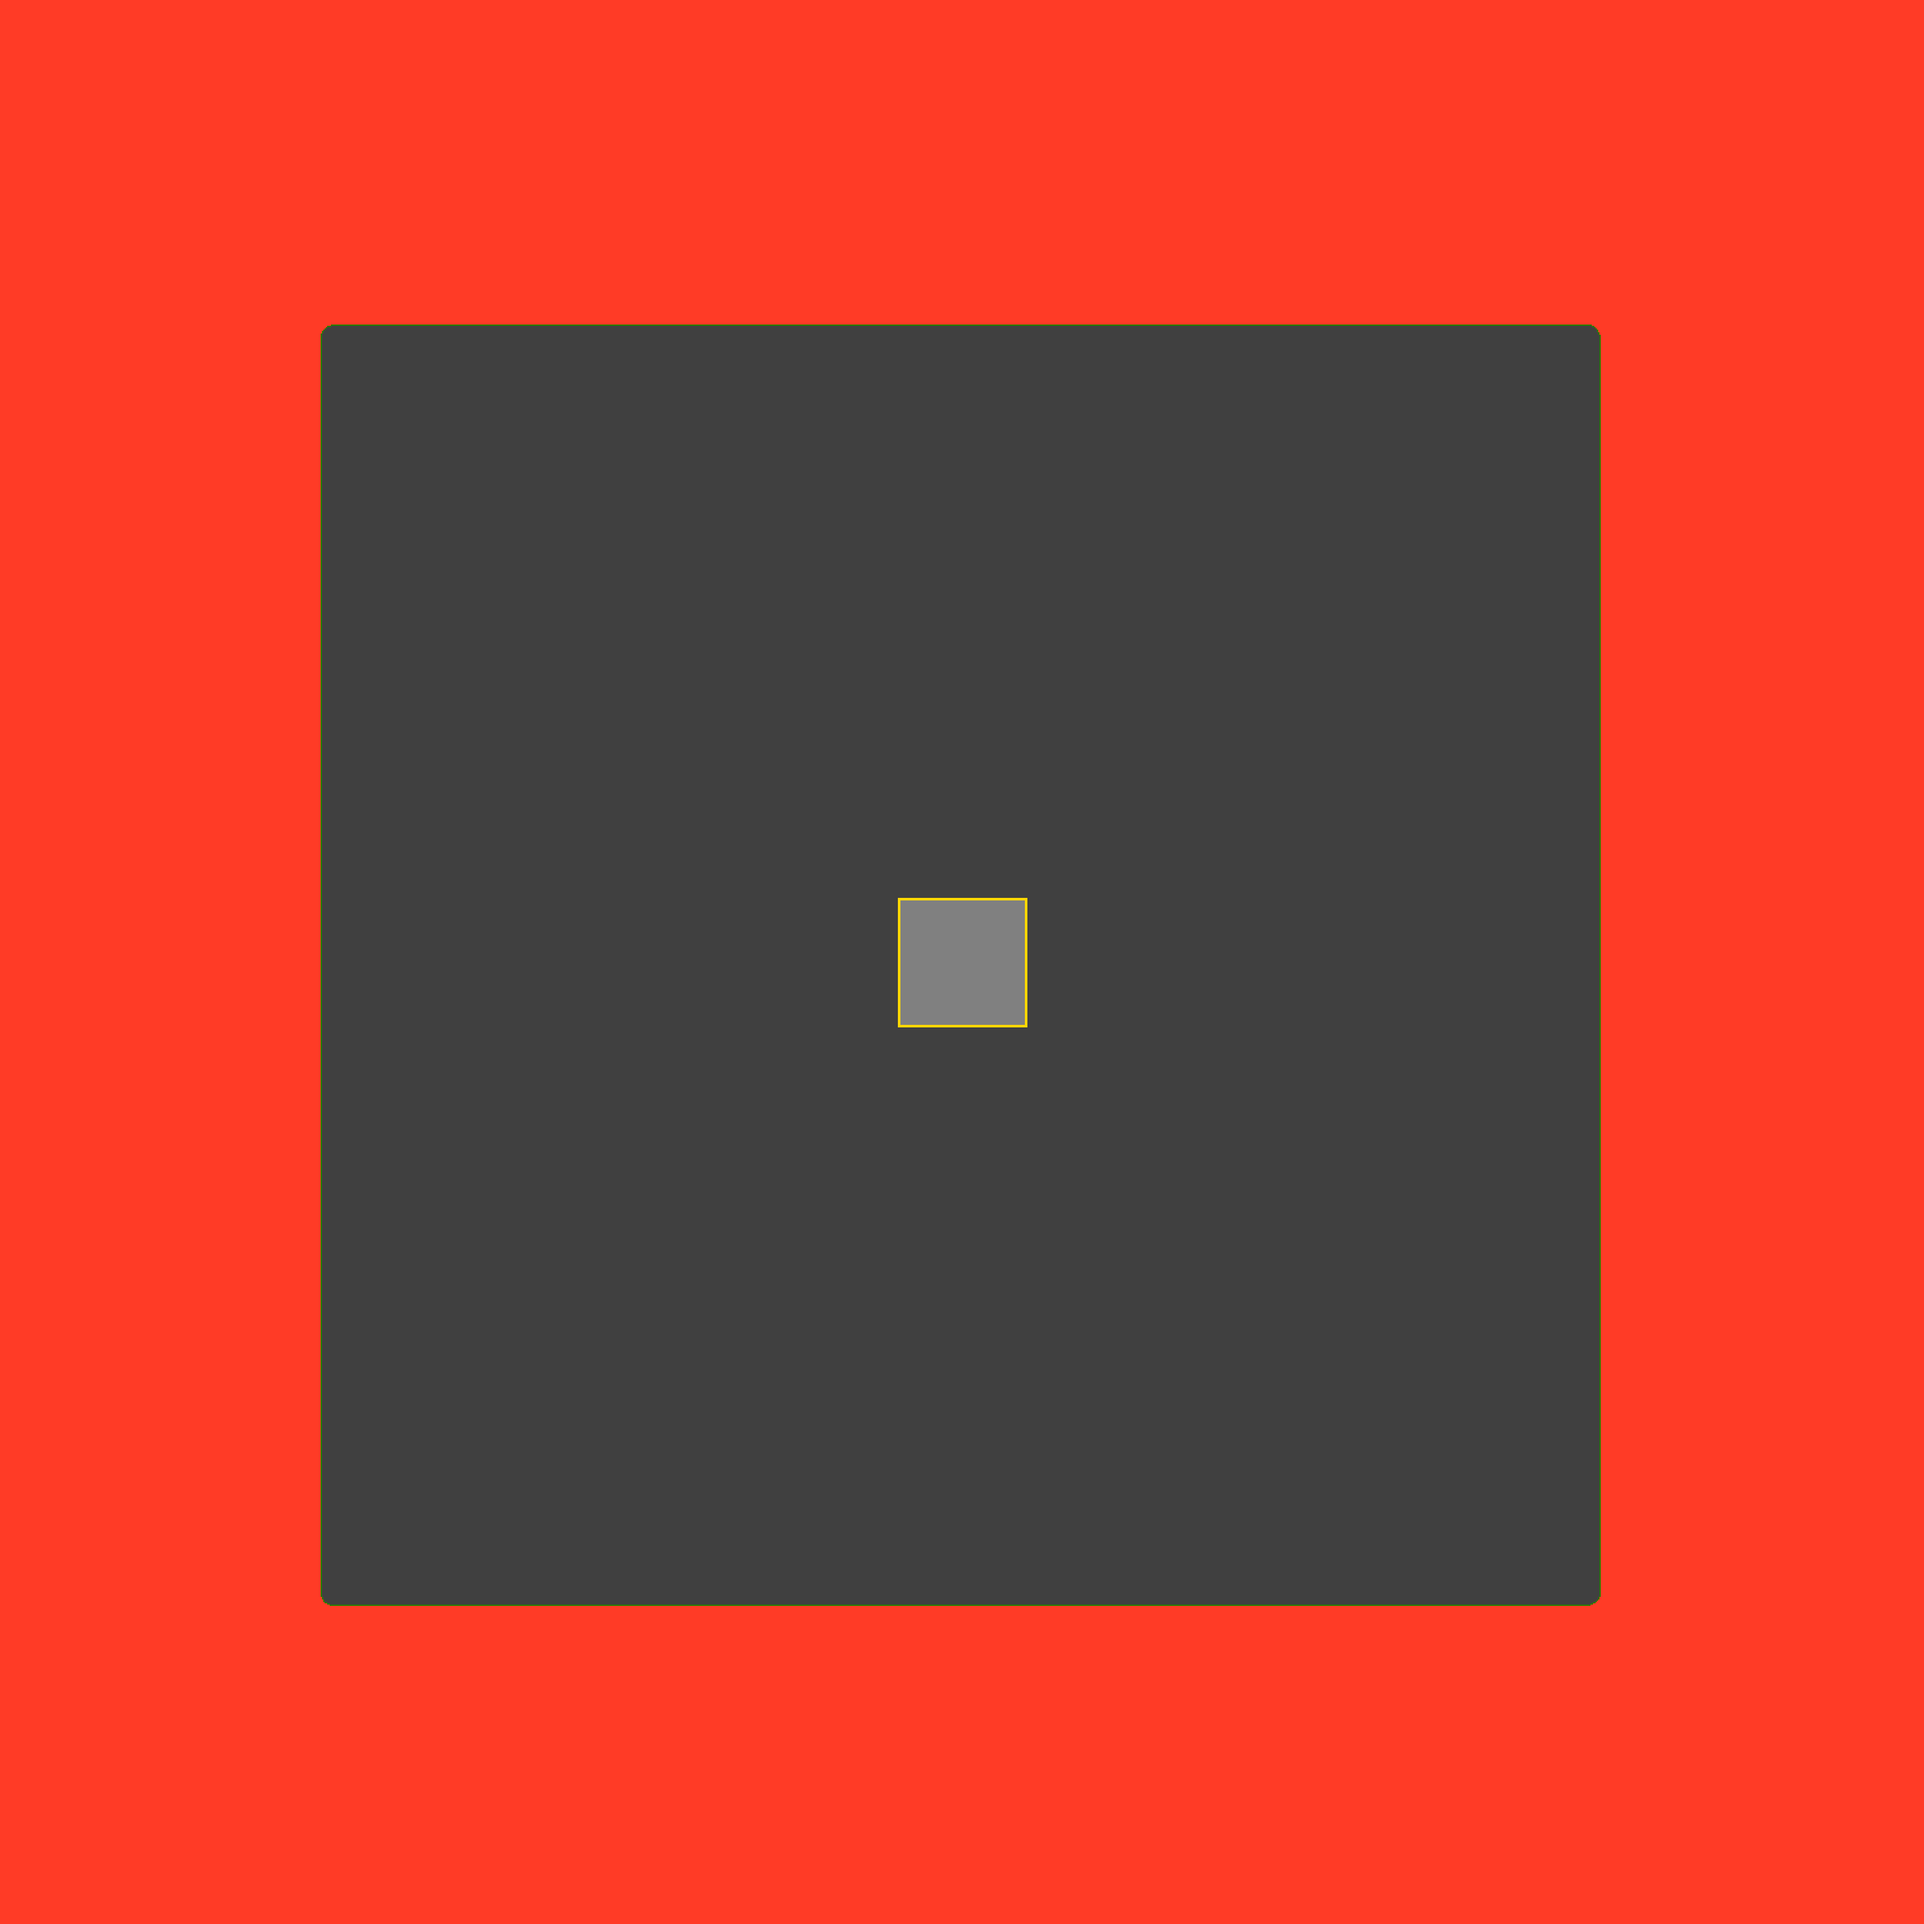
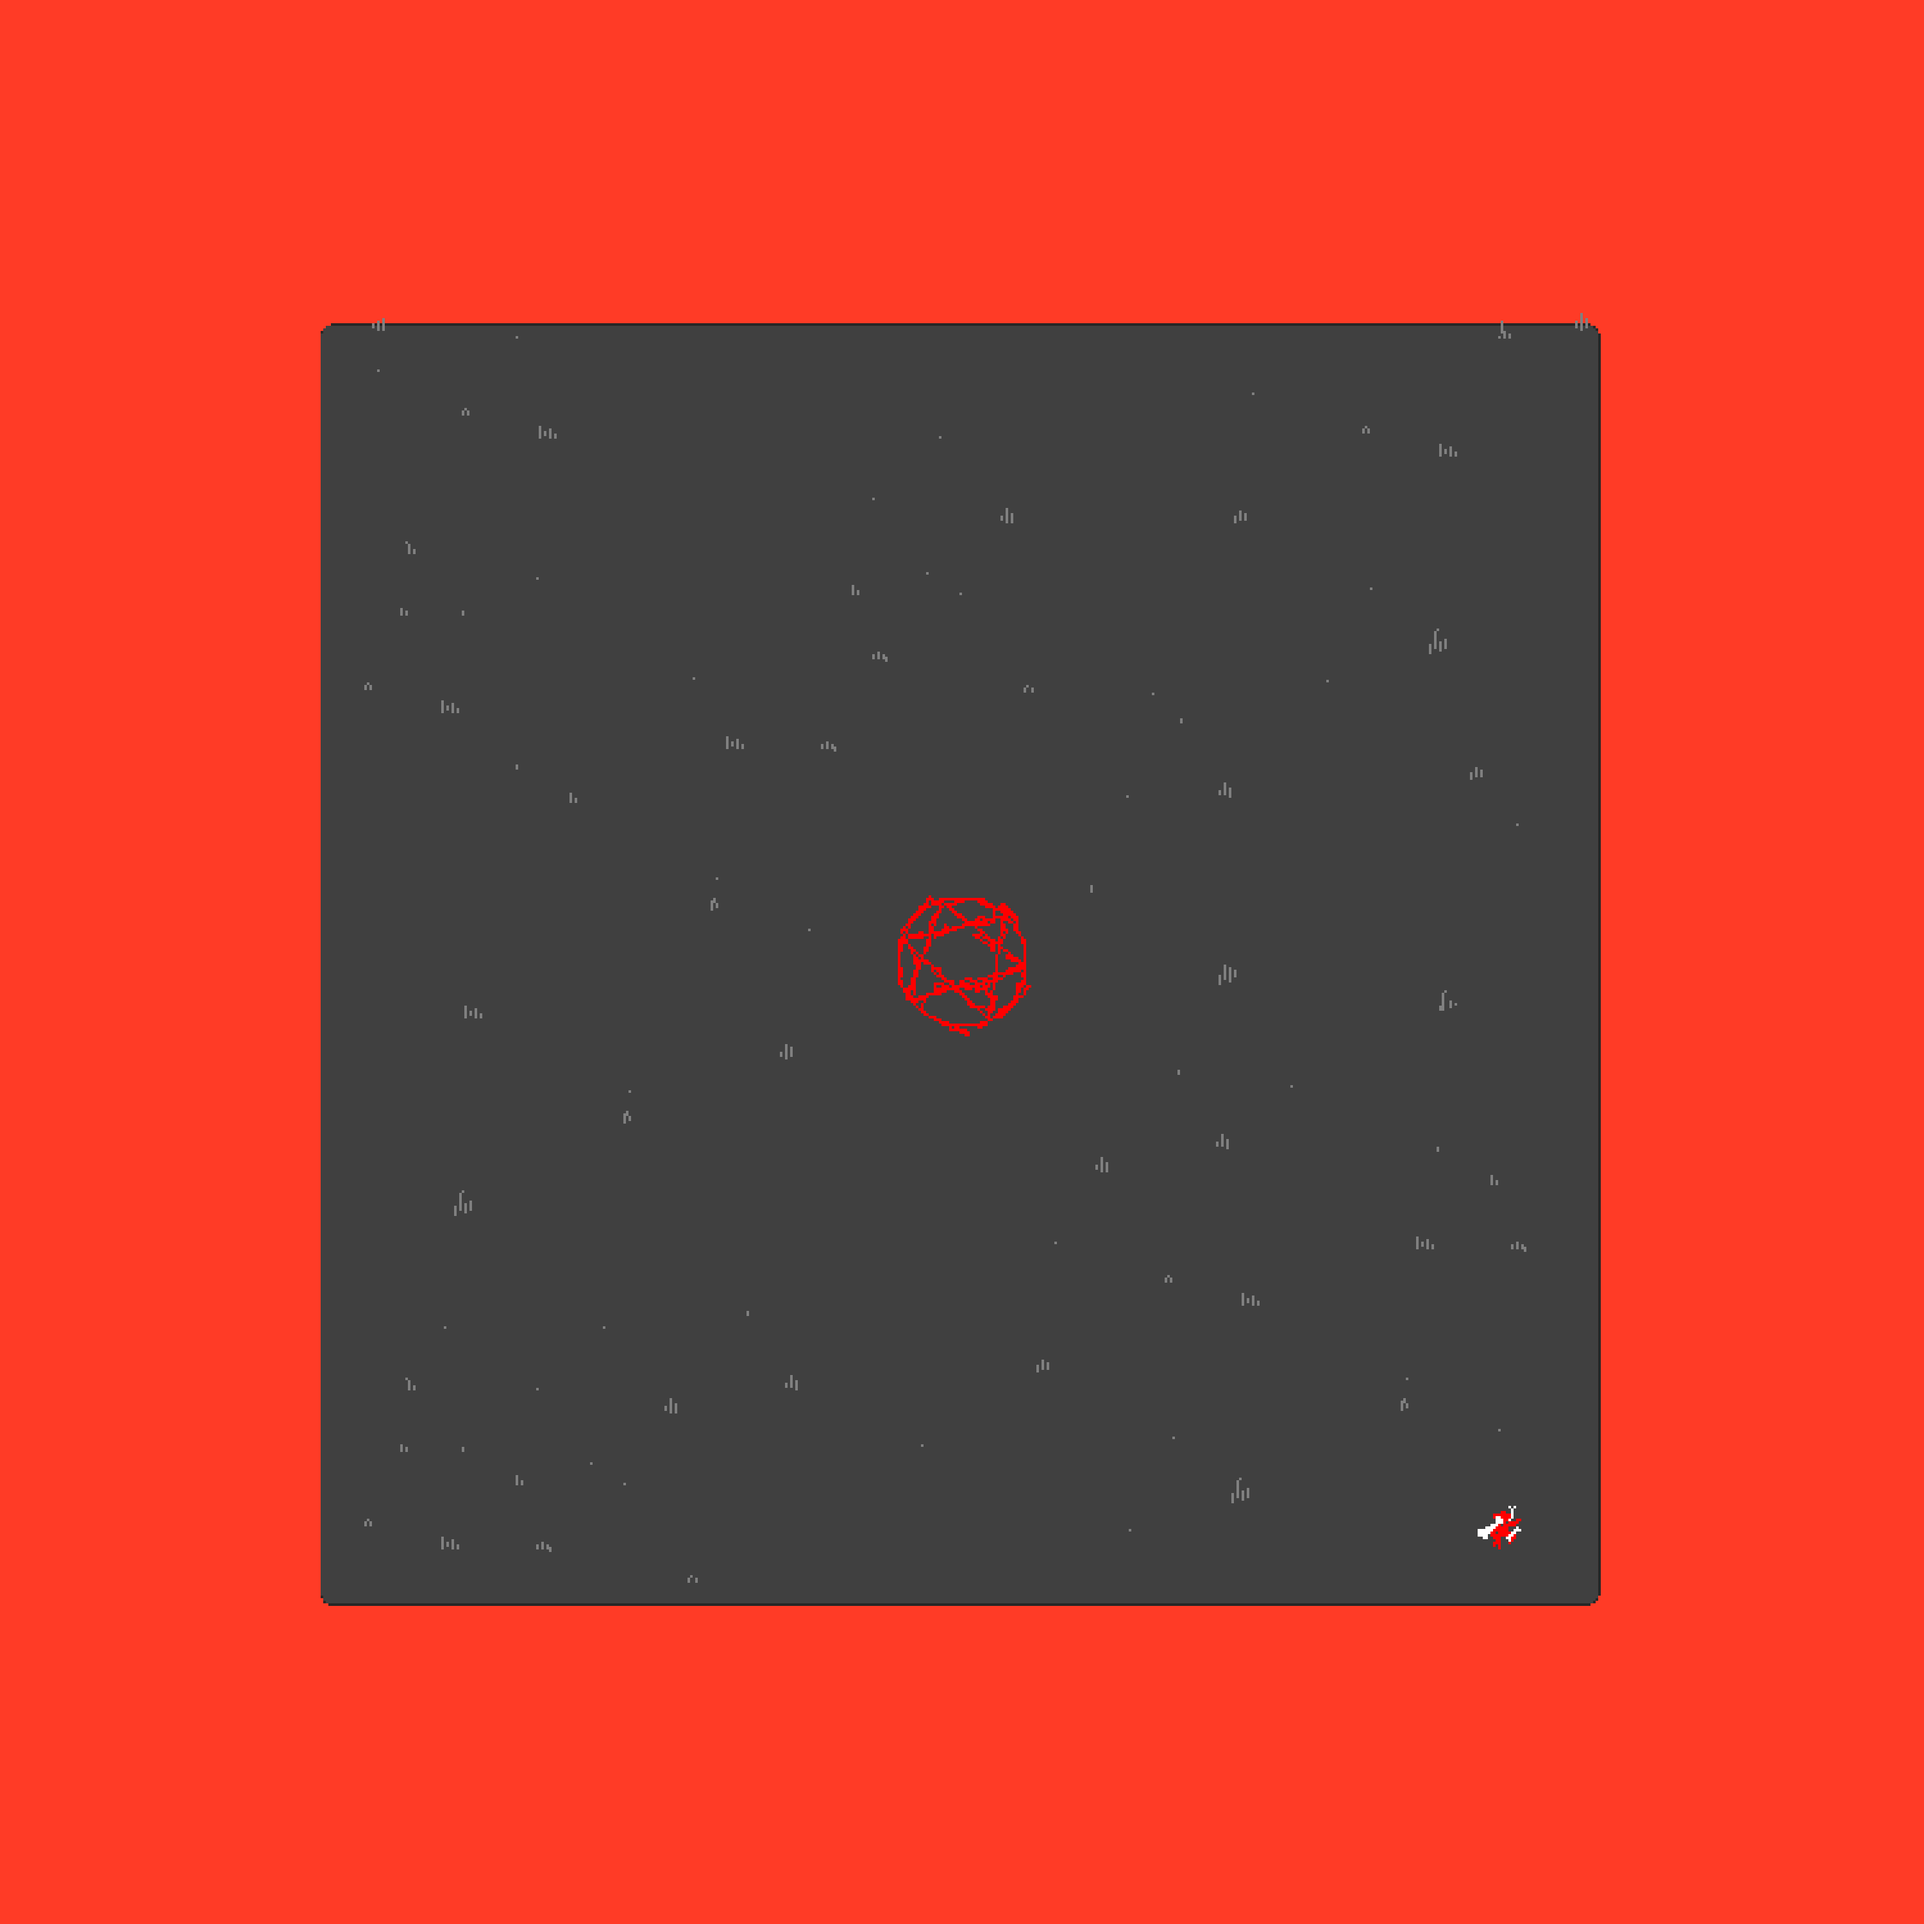
objects and scene upgrade

Changed region(s): [[0.465, 0.465, 0.558, 0.558], [0.775, 0.775, 0.806, 0.806]]

diff --git a/src/server.js b/src/server.js
@@ -38,6 +38,10 @@ var essences = [],
 var stones = [],
     qtdStones = 30;
 
+//objects
+var objects = [],
+    qtdObjects = 5;
+
 //chat
 var chatHis = [ '', '', '', ''],
     chatHisColor = [ 'black', 'black', 'black', 'black'];
@@ -64,8 +68,8 @@ for (var i=0; i<qtdStones; ++i){
   stones[i] = {
     x: getRandomInt(-mapSize, mapSize),
     y: getRandomInt(-mapSize, mapSize),
-    width: 50,
-    height: 50,
+    width: 48,
+    height: 48,
     velocity: 10,
     onGround: true,
     rangeUp: 0,
@@ -74,6 +78,63 @@ for (var i=0; i<qtdStones; ++i){
     rangeRigth: 0,
     owner: -1,
   }
+}
+
+//objects
+objects[0] = {
+  x: -500,
+  y: -500,
+  width: 144,
+  height: 96,
+  rX: -500-68,
+  rY: -500-304,
+  rWidth: 300,
+  rHeight: 400,
+  obj: 'tree'
+}
+objects[1] = {
+  x: 200,
+  y: -300,
+  width: 144,
+  height: 96,
+  rX: 200-68,
+  rY: -300-304,
+  rWidth: 300,
+  rHeight: 400,
+  obj: 'tree'
+}
+objects[2] = {
+  x: -250,
+  y: -50,
+  width: 144,
+  height: 96,
+  rX: -250-68,
+  rY: -50-304,
+  rWidth: 300,
+  rHeight: 400,
+  obj: 'tree'
+}
+objects[3] = {
+  x: 400,
+  y: 400,
+  width: 144,
+  height: 96,
+  rX: 400-68,
+  rY: 400-304,
+  rWidth: 300,
+  rHeight: 400,
+  obj: 'tree'
+}
+objects[4] = {
+  x: -600,
+  y: 600,
+  width: 144,
+  height: 96,
+  rX: -600-68,
+  rY: 600-304,
+  rWidth: 300,
+  rHeight: 400,
+  obj: 'tree'
 }
 
 /******************************************************************************
@@ -121,7 +182,17 @@ io.on('connection', function(socket){
     essences: essences,
     qtdEssences: qtdEssences,
     stones: stones,
-    qtdStones: qtdStones
+    qtdStones: qtdStones,
+    objects: objects.map(function(a){
+      var b = {};
+      b.x = a.rX;
+      b.y = a.rY;
+      b.width = a.rWidth;
+      b.height = a.rHeight;
+      b.img = '../img/object/'+a.obj+'.png';
+      return b;
+    }),
+    qtdObjects: qtdObjects
   });
 
   //input down
@@ -190,6 +261,10 @@ io.on('connection', function(socket){
 function loop(){
   inputs();
   animateStones();
+
+  for(var i=0; i<qtdStones; ++i){
+    if(objectsCollision(stones[i])) resetStone(i, true);
+  }
 
   for (var i=0; i<qtdPlayers; ++i){
 
@@ -268,7 +343,7 @@ function inputs(){
   for (var i=0; i<qtdPlayers; ++i){
     //a
     if (key[i][65]){
-      if (players[i].x - players[i].velocity > -mapSize){
+      if (players[i].x - players[i].velocity > -mapSize && !objectsCollisionPredict(players[i], 'LEFT')){
         players[i].x -= players[i].velocity;
         players[i].walking = true;
         players[i].indexY = 1;
@@ -284,7 +359,7 @@ function inputs(){
     }
     //d
     if (key[i][68]){
-      if (players[i].x + players[i].velocity + players[i].width < mapSize){
+      if (players[i].x + players[i].velocity + players[i].width < mapSize && !objectsCollisionPredict(players[i], 'RIGHT')){
         players[i].x += players[i].velocity;
         players[i].walking = true;
         players[i].indexY = 0;
@@ -300,7 +375,7 @@ function inputs(){
     }
     //s
     if (key[i][83]){
-      if (players[i].y - players[i].velocity + players[i].height < mapSize){
+      if (players[i].y - players[i].velocity + players[i].height < mapSize && !objectsCollisionPredict(players[i], 'DOWN')){
         players[i].y += players[i].velocity;
         players[i].walking = true;
         players[i].direction = 'DOWN';
@@ -315,7 +390,7 @@ function inputs(){
     }
     //w
     if (key[i][87]){
-      if (players[i].y - players[i].velocity > -mapSize){
+      if (players[i].y - players[i].velocity > -mapSize && !objectsCollisionPredict(players[i], 'UP')){
         players[i].y -= players[i].velocity;
         players[i].walking = true;
         players[i].direction = 'UP';
@@ -393,7 +468,6 @@ function playersSend(){
     b.indexY = a.indexY;
     return b;
   })});
-  //io.emit('players listen', { qtdPlayers: qtdPlayers, players: players });
 }
 
 //send stones
@@ -406,7 +480,6 @@ function stonesSend(){
     b.owner = a.owner;
     return b;
   })});
-  //io.emit('stones listen', { qtdStones: qtdStones, stones: stones });
 }
 
 //send essences
@@ -417,7 +490,6 @@ function essencesSend(){
     b.y = a.y;
     return b;
   })});
-  //io.emit('essences listen', { qtdEssences: qtdEssences, essences: essences });
 }
 
 //random number between min and max
@@ -434,6 +506,59 @@ function checkCollision(obj1, obj2){
     && obj1.y + obj1.height > obj2.y && obj1.y < obj2.y + obj2.height){
     return true;
   }
+  return false;
+}
+
+//check collision between a object and all the others
+function objectsCollision(obj1){
+  for(var i=0; i<qtdObjects; ++i){
+    if(checkCollision(obj1, objects[i])) return true;
+  }
+
+  return false;
+}
+
+//check "future" collision between a object and all the others
+function objectsCollisionPredict(obj1, direction){
+  for(var i=0; i<qtdObjects; ++i){
+    if(checkCollisionPredict(obj1, objects[i], direction)) return true;
+  }
+
+  return false;
+}
+
+//check collision between two objects "in the future" WOOOOWWW
+function checkCollisionPredict(obj1, obj2, direction){
+
+  if(direction == 'LEFT'){
+    if (obj1 != undefined && obj2 != undefined
+      && obj1.x - obj1.velocity + obj1.width > obj2.x && obj1.x - obj1.velocity < obj2.x + obj2.width
+      && obj1.y + obj1.height > obj2.y && obj1.y < obj2.y + obj2.height){
+      return true;
+    }
+  }
+  else if(direction == 'RIGHT'){
+    if (obj1 != undefined && obj2 != undefined
+      && obj1.x + obj1.velocity + obj1.width > obj2.x && obj1.x + obj1.velocity < obj2.x + obj2.width
+      && obj1.y + obj1.height > obj2.y && obj1.y < obj2.y + obj2.height){
+      return true;
+    }
+  }
+  else if(direction == 'DOWN'){
+    if (obj1 != undefined && obj2 != undefined
+      && obj1.x + obj1.width > obj2.x && obj1.x < obj2.x + obj2.width
+      && obj1.y + obj1.velocity + obj1.height > obj2.y && obj1.y + obj1.velocity < obj2.y + obj2.height){
+      return true;
+    }
+  }
+  else if(direction == 'UP'){
+    if (obj1 != undefined && obj2 != undefined
+      && obj1.x + obj1.width > obj2.x && obj1.x < obj2.x + obj2.width
+      && obj1.y - obj1.velocity + obj1.height > obj2.y && obj1.y - obj1.velocity < obj2.y + obj2.height){
+      return true;
+    }
+  }
+
   return false;
 }
 
@@ -482,10 +607,14 @@ function animateStones(){
 }
 
 //set the stone state to default
-function resetStone(stone){
+function resetStone(stone, fatal){
   stones[stone].onGround = true;
   stones[stone].owner = -1;
-  if (stones[stone].x < -mapSize || stones[stone].y < -mapSize || stones[stone].x > mapSize || stones[stone].y > mapSize){
+  stones[stone].rangeLeft = 0;
+  stones[stone].rangeRigth = 0;
+  stones[stone].rangeDown = 0;
+  stones[stone].rangeUp = 0;
+  if(stones[stone].x < -mapSize || stones[stone].y < -mapSize || stones[stone].x > mapSize || stones[stone].y > mapSize || fatal){
     stones[stone].x = getRandomInt(-mapSize, mapSize);
     stones[stone].y = getRandomInt(-mapSize, mapSize);
   }

diff --git a/src/client/js/main.js b/src/client/js/main.js
@@ -10,6 +10,8 @@ var id = '',
     qtdEssences = 0,
     stones = [],
     qtdStones = 0,
+    objects = [],
+    qtdObjects = 0,
     myScore = 0,
     myKills = 0,
     myDeaths = 0,
@@ -43,6 +45,8 @@ socket.on('start', function(params){
   qtdEssences = params.qtdEssences;
   stones = params.stones;
   qtdStones = params.qtdStones;
+  objects = params.objects;
+  qtdObjects = params.qtdObjects;
 
   for(var i=0; i<qtdPlayers; ++i){
     players[i].frames = 4;
@@ -63,6 +67,12 @@ socket.on('start', function(params){
     stones[i].index = getRandomInt(0, 2);
     stones[i].time = getRandomInt(10, 200);
     stones[i].auxTime = 0;
+  }
+
+  for(var i=0; i<qtdObjects; ++i){
+    var imgObj = new Image();
+    imgObj.src = objects[i].img;
+    objects[i].img = imgObj;
   }
 
   render();
@@ -140,6 +150,7 @@ function render(){
   printPlayers();
   printEssences();
   printStones();
+  printObjects();
 
   cameraFollowStop();
 
@@ -164,10 +175,10 @@ function printPlayers(){
     var p = players[i];
     if (p != undefined){
       ctx.drawImage(char_img, p.index*p.width, p.indexY*p.height, p.width, p.height, p.x, p.y, p.width, p.height);
-      ctx.fillStyle = 'blue';
-      var nickX = p.x+(p.width/2)-(ctx.measureText(p.nickname).width/2),
-          nickY = p.y-5;
-      ctx.fillText(p.nickname, nickX, nickY);
+      //ctx.fillStyle = 'blue';
+      //var nickX = p.x+(p.width/2)-(ctx.measureText(p.nickname).width/2),
+      //    nickY = p.y-5;
+      //ctx.fillText(p.nickname, nickX, nickY);
     }
   }
 }
@@ -185,6 +196,14 @@ function printEssences(){
   for (var i=0; i<qtdEssences; ++i){
     var e = essences[i];
     ctx.drawImage(essence_img, e.index*e.width, 0, e.width, e.height, e.x, e.y, e.width, e.height);
+  }
+}
+
+//show the objects on map
+function printObjects(){
+  for(var i=0; i<qtdObjects; ++i){
+    var o = objects[i];
+    ctx.drawImage(o.img, o.x, o.y, o.width, o.height);
   }
 }
 

diff --git a/src/client/js/imports.js b/src/client/js/imports.js
@@ -5,6 +5,7 @@ var canvas = document.getElementById('canvasid'),
 
 //config
 ctx.font = 'bold 15px Courier';
+//ctx.scale(0.2, 0.2); //god vision
 
 //globals
 var prompt = false;
